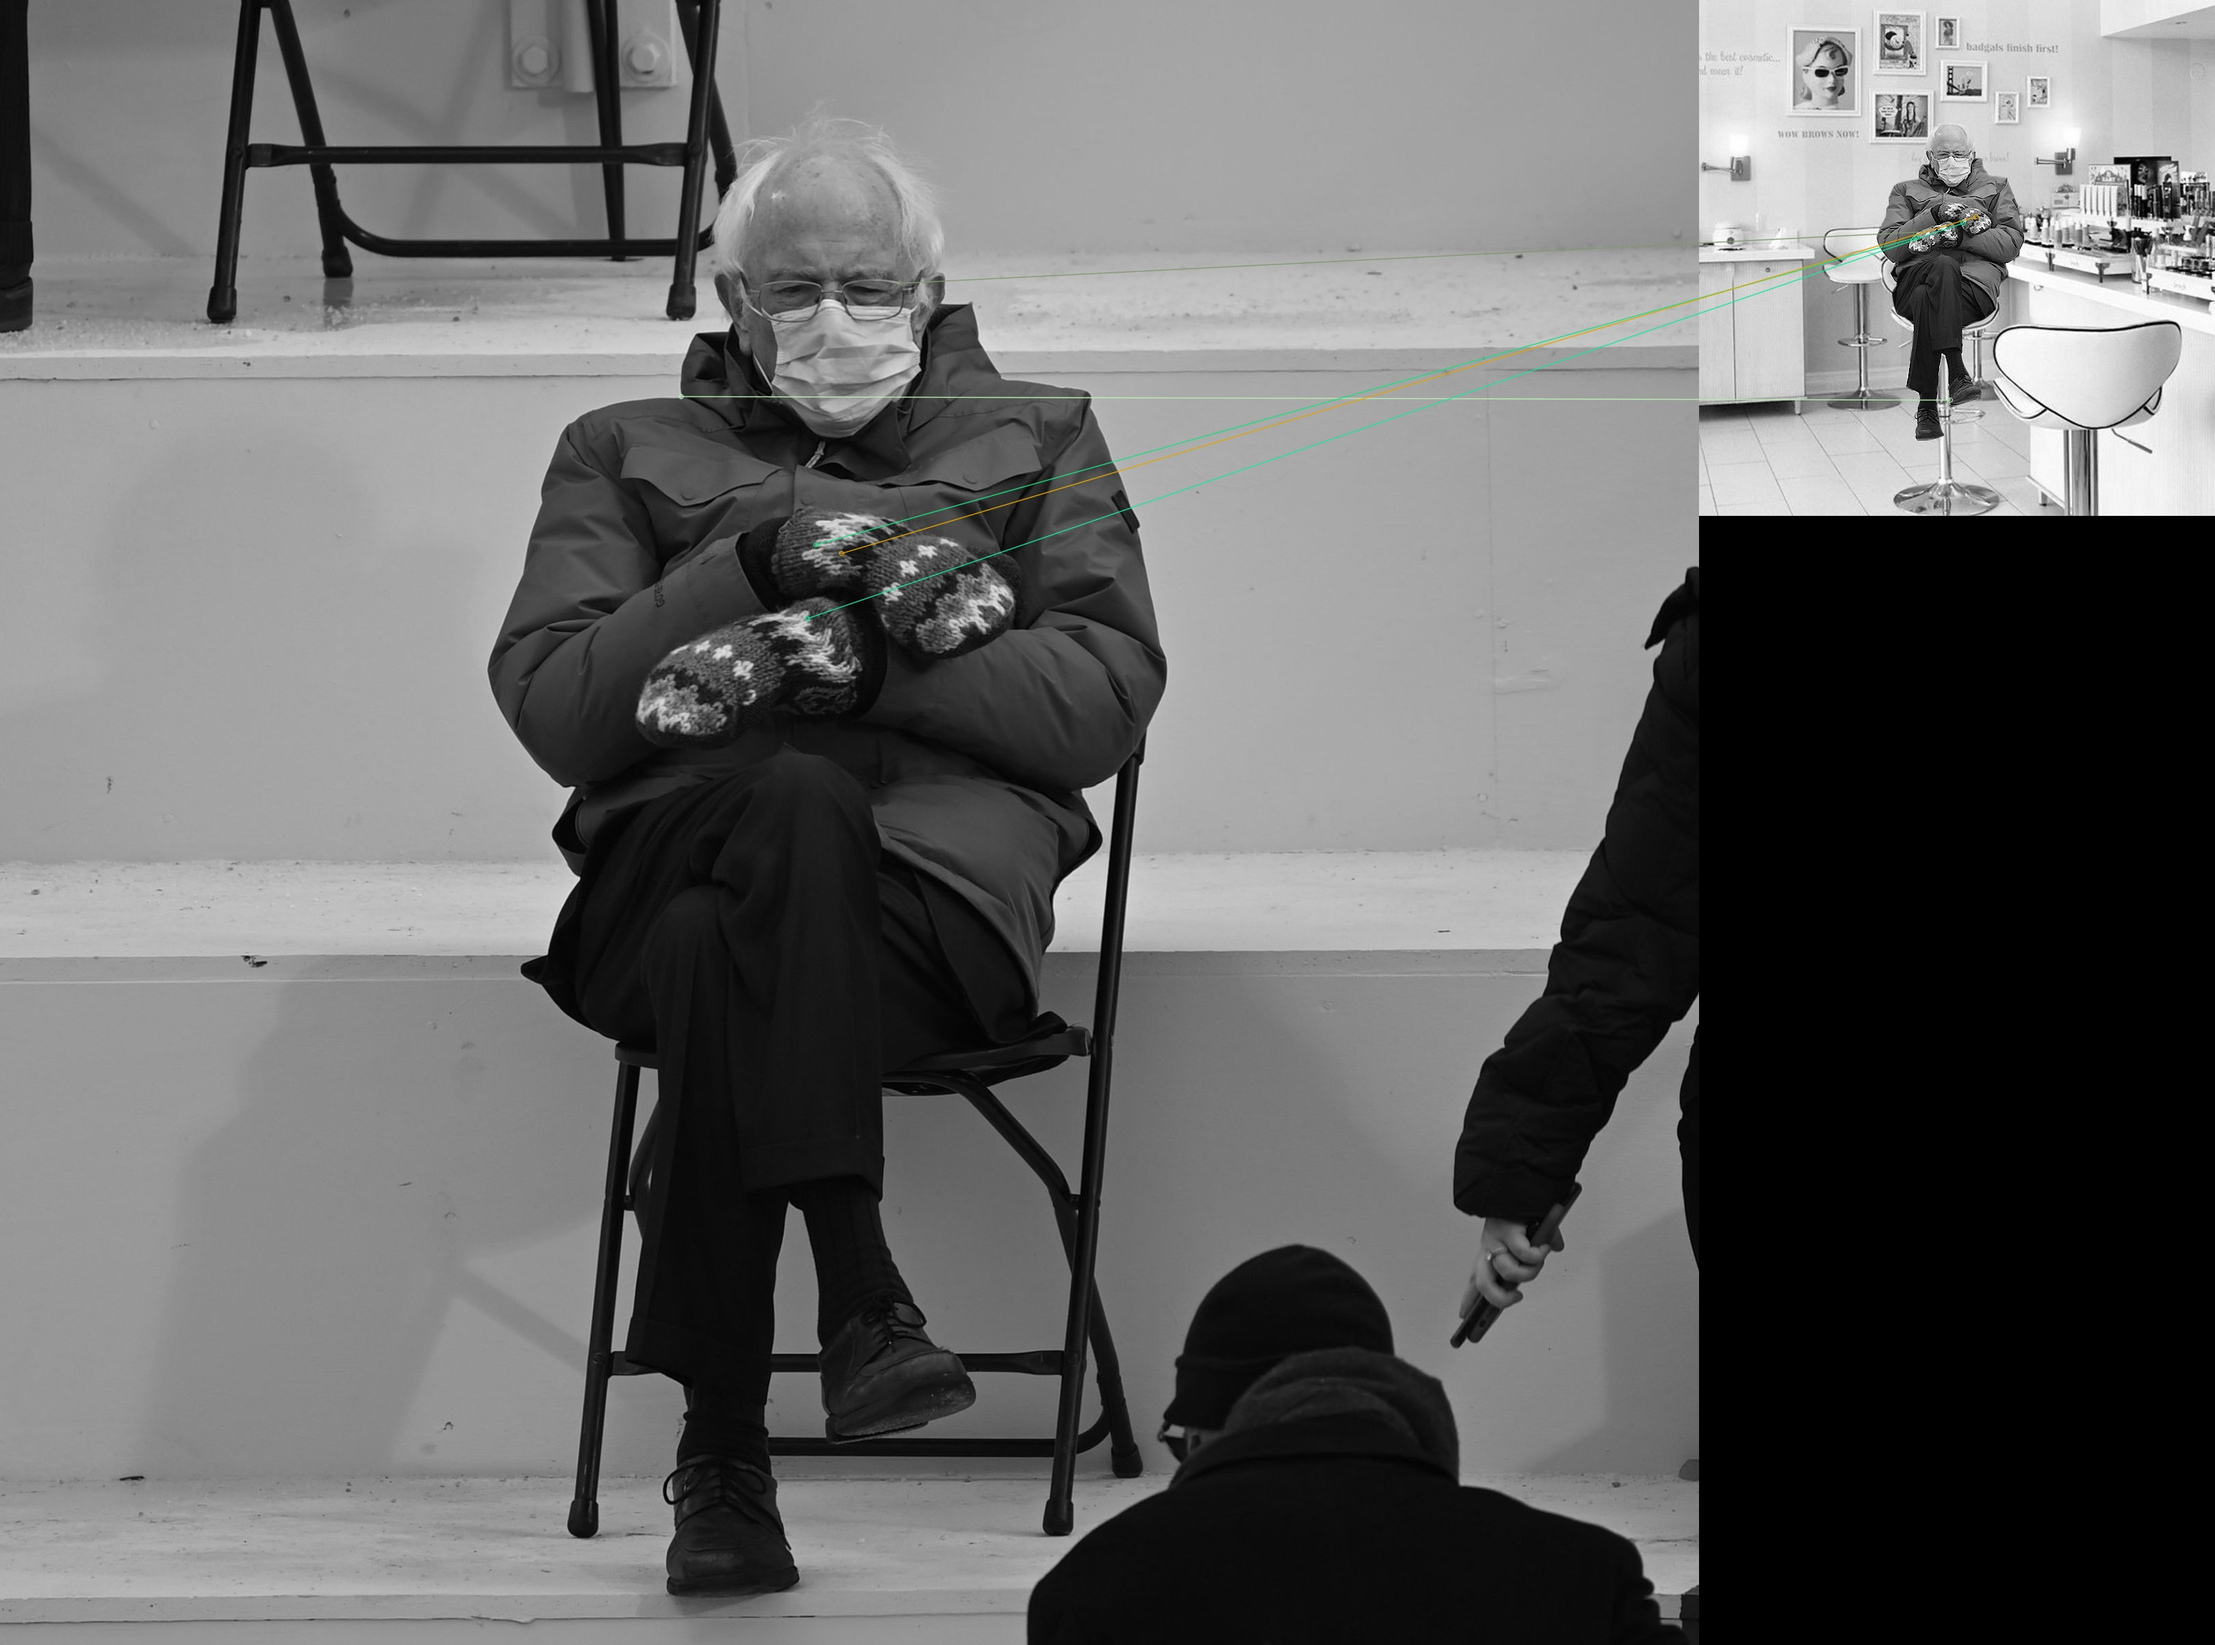
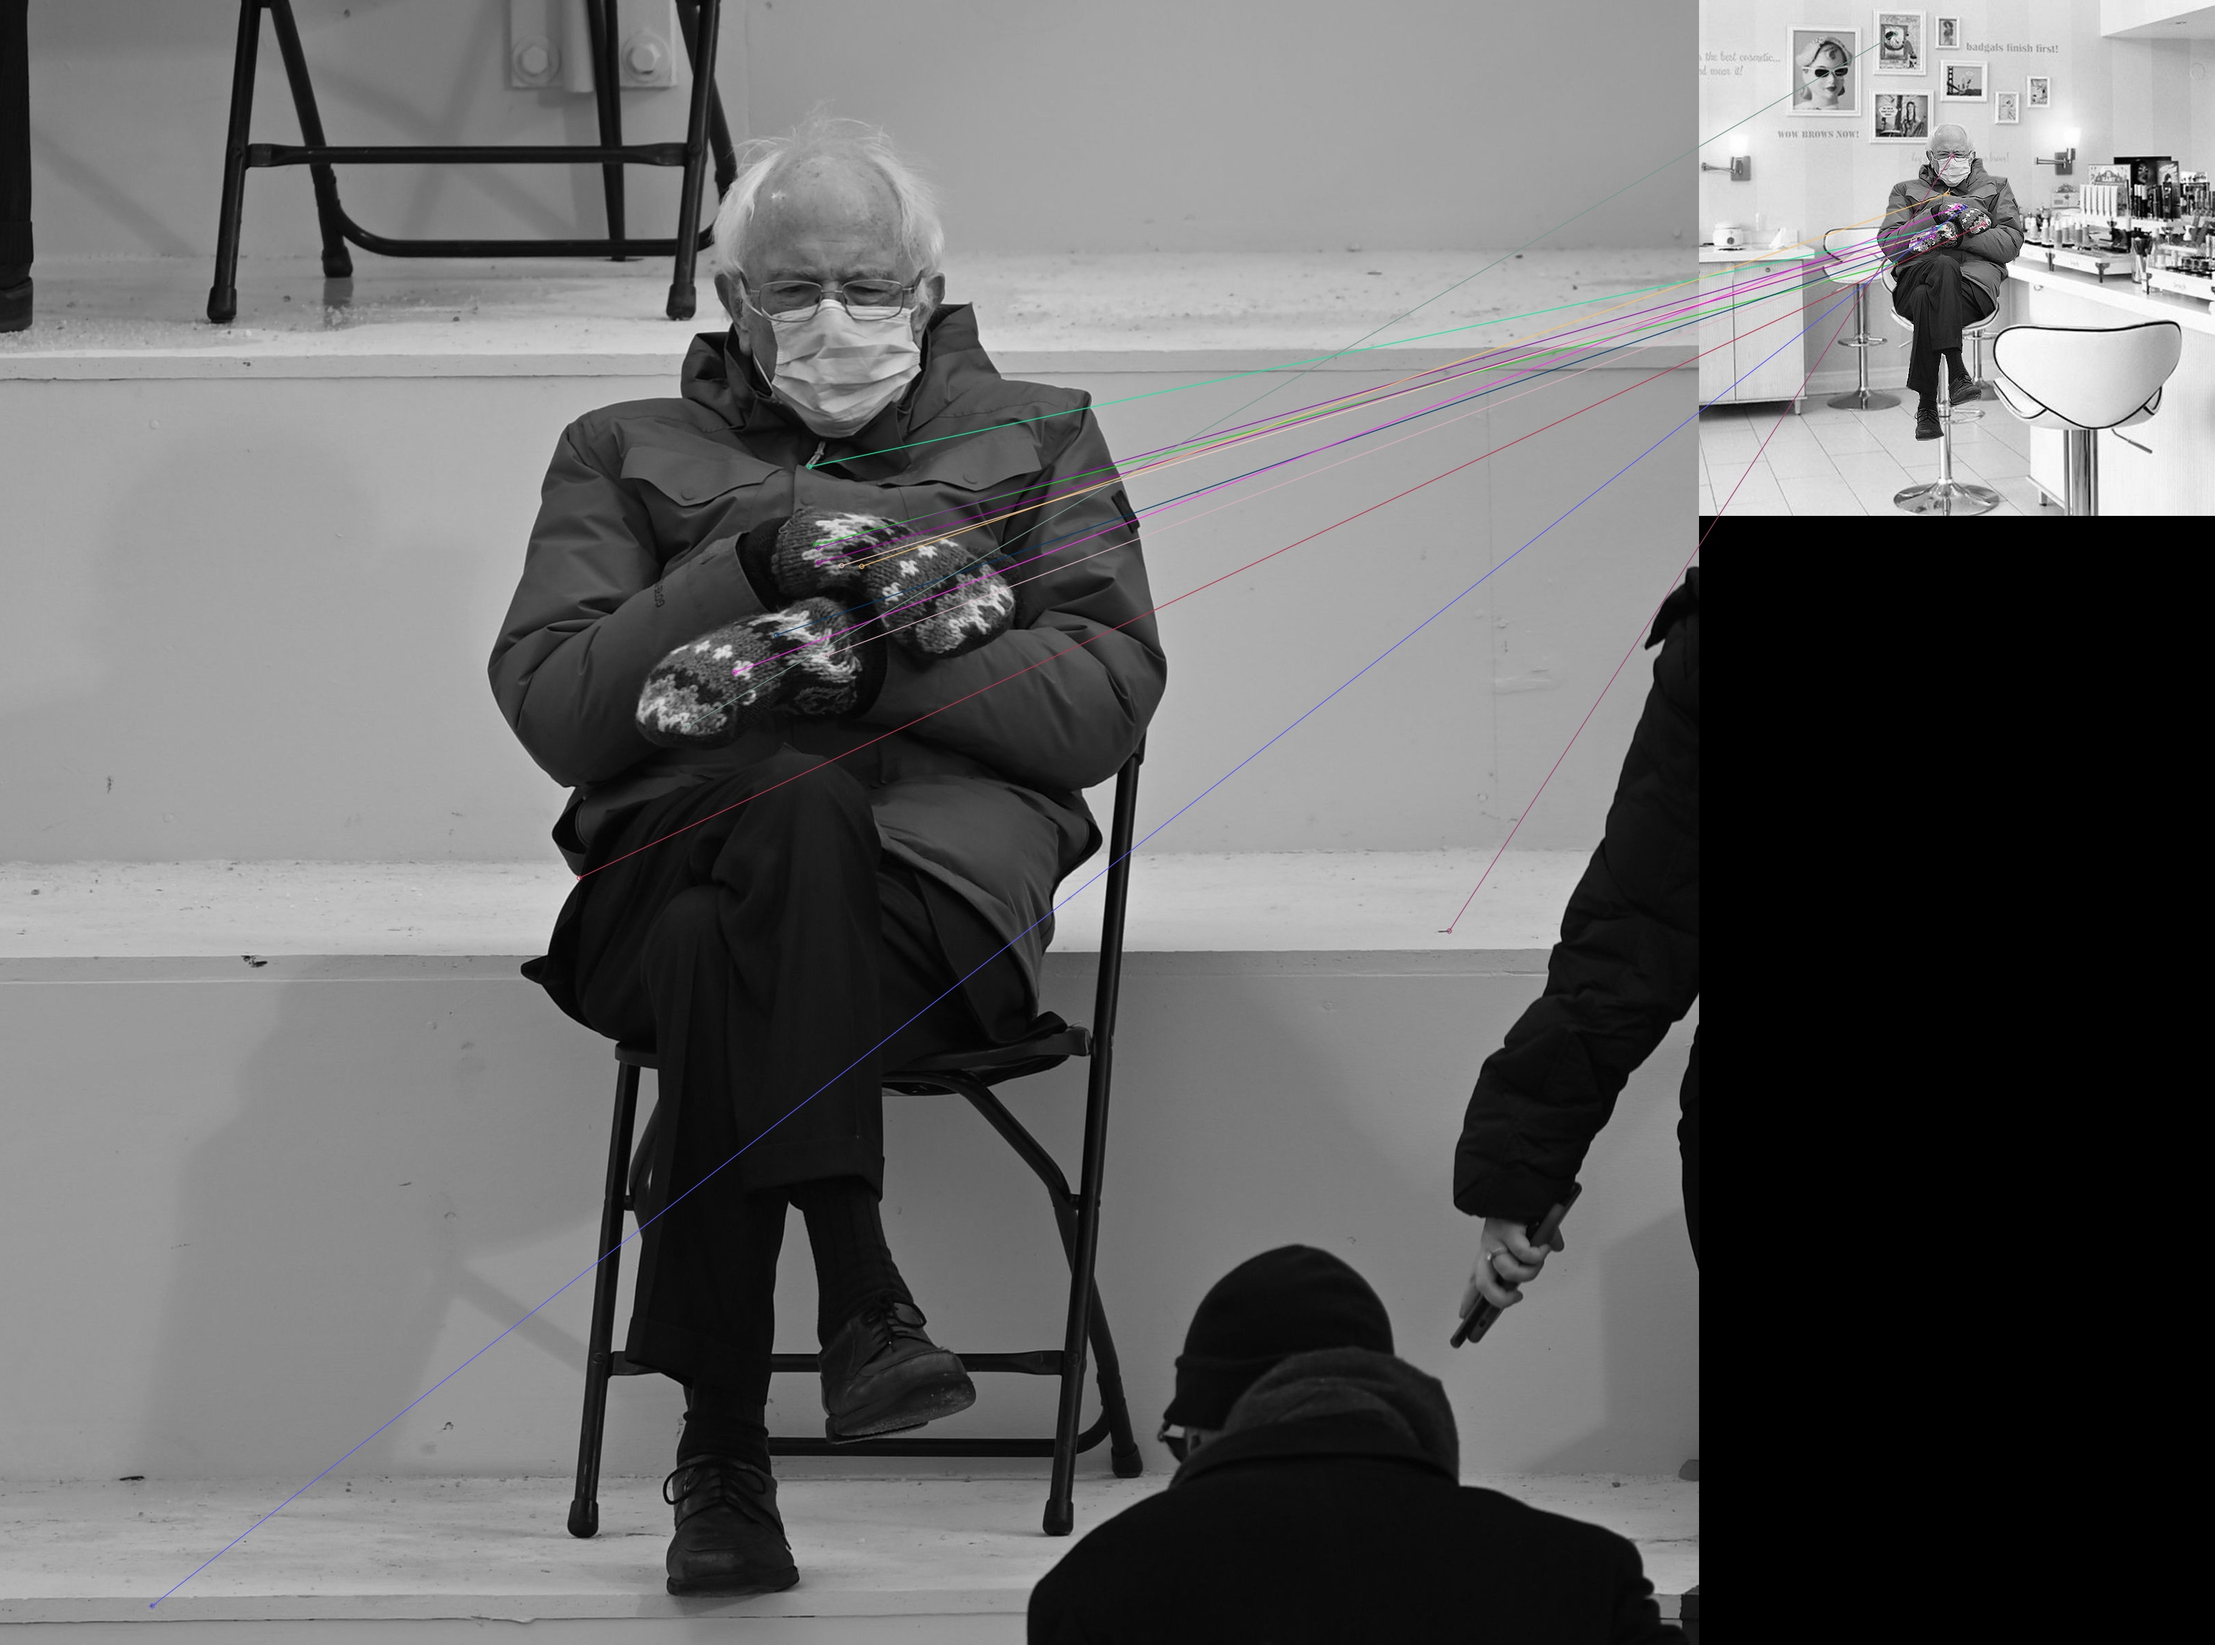
First Draft Finished

Changed region(s): [[0.3727, 0.1237, 0.9007, 0.3711], [0.3727, 0.3711, 0.4038, 0.402]]

diff --git a/bernie.py b/bernie.py
@@ -153,8 +153,6 @@ def BestMatch(p1s, p2s, d1s, d2s, ratio, path):
         if second_val / val < ratio:
             tmp = cv2.DMatch(i, j, val)
             matches.append(tmp)
-        else:
-            print(str(second_val / val))
 
         second_val = 0
         val = 0
@@ -204,8 +202,8 @@ ims = ['bernie180.jpg', 'darkerBernie.jpg',
        'berniePixelated2.png', 'bernieShoolLunch.jpeg', 
        'brighterBernie.jpg']
 
-kpthres = [0.04, 0.6, 0.04, 0.04, 0.04, 0.04, 0.05, 0.04, 0.04]
-rvals = [0.93, 0.93, 0.93, 0.93, 0.93, 0.93, 0.93, 0.93, 0.93]
+kpthres = [0.04, 0.6, 0.2, 0.1, 0.03, 0.38, 0.35, 0.04, 0.04]
+rvals = [0.93, 0.94, 0.93, 0.94, 0.93, 0.93, 0.94, 0.95, 0.93]
 
 kps, des = ProcessImage("bernieSanders.jpg", 0.04)
 
